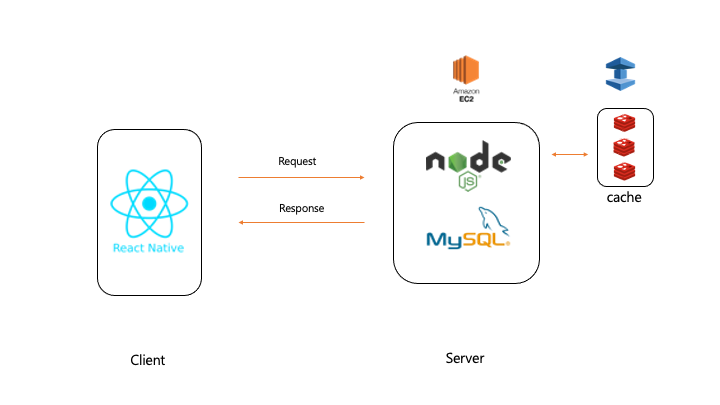
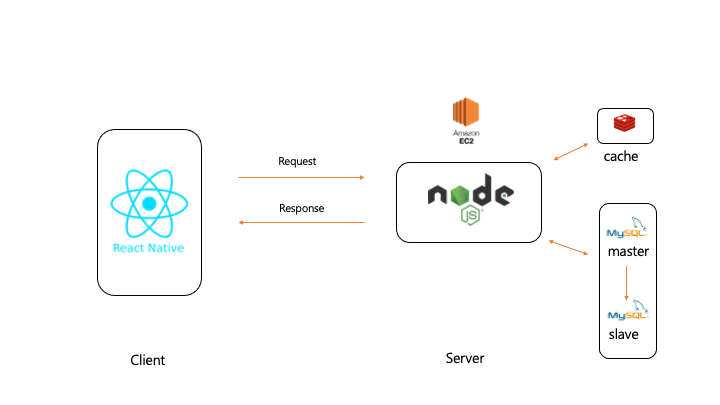
readMe 아키텍처 수정

diff --git a/utilities.js b/utilities.js
@@ -1,6 +1,6 @@
 const jwt = require("jsonwebtoken");
 const dotenv = require("dotenv");
-const { cache, POOL } = require("./db");
+const { cache, slavePOOL } = require("./db");
 dotenv.config();
 
 const issueAtoken = (id, which, expiresIn) => {
@@ -16,7 +16,7 @@ const getCache = async ({ resource, id, duration }) => {
       console.log("캐시 hit!");
       return JSON.parse(customerRecord);
     }
-    const queryResult = await POOL.execute(
+    const queryResult = await slavePOOL.execute(
       `SELECT * FROM ${resource} WHERE userId=?`,
       [id]
     );

diff --git a/middlewares.js b/middlewares.js
@@ -1,5 +1,4 @@
 const jwt = require("jsonwebtoken");
-const { POOL } = require("./db");
 const dotenv = require("dotenv");
 const { issueAtoken, getCache } = require("./utilities");
 dotenv.config();
